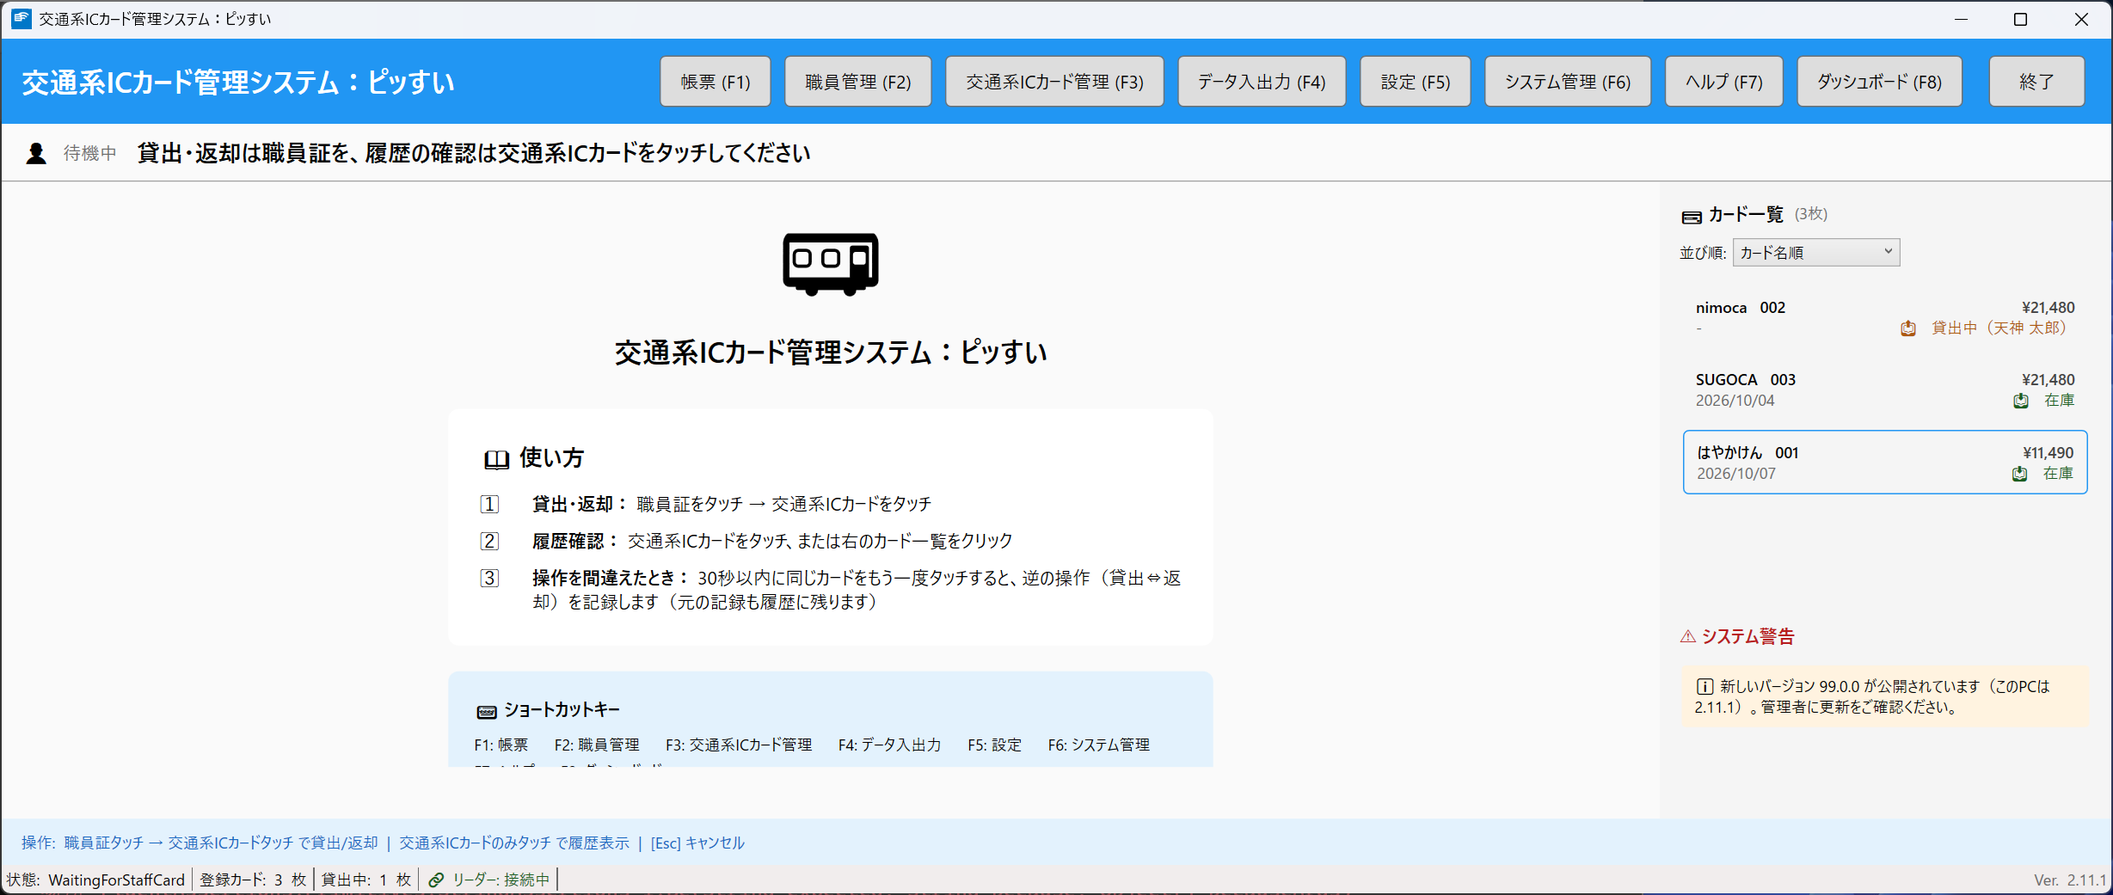
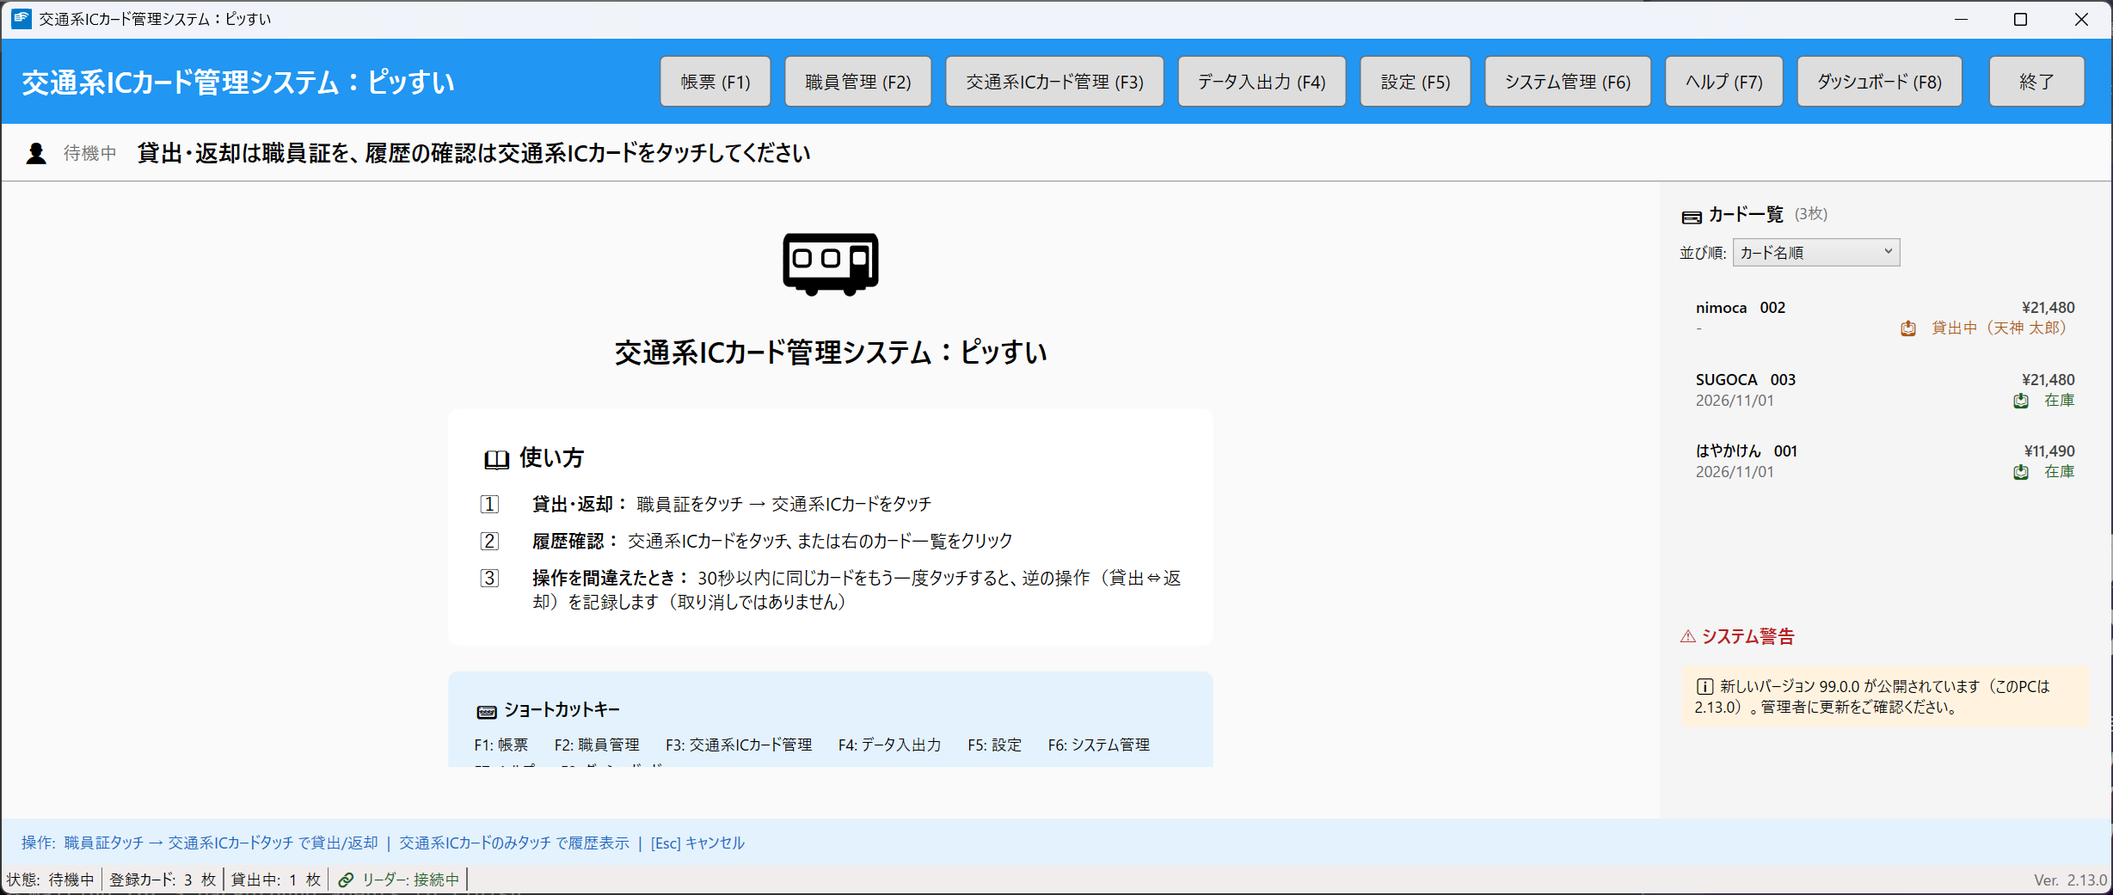
docs: 30 秒ルールの説明「両方が履歴に残る」を事実に合わせた（#2367） (#2368)
* docs: 30 秒ルールの説明「両方が履歴に残る」を事実に合わせた（#2367）

貸出のやり直しは通常の返却と同じく「（貸出中）」の行を削除するため、
その間に利用が無ければ台帳に行は残らない。画面の案内文の括弧書きを
「（取り消しではありません）」に改め、マニュアル・設計書を向きごとに書き分けた。

Claude-Session: https://claude.ai/code/session_015oomTQ2dRFweay62Pkst8V

* docs: レビュー指摘を反映し、未記録の利用の扱いを正確にしてスクリーンショットを撮り直した（#2367）

- 「その間に利用が無ければ」を「まだ記録されていない利用／台帳に未記録の利用が無ければ」に
  （返却時に記録する利用の下限は導入行の日付。#2237）
- main.png・main_with_warnings.png を新しい案内文で撮り直した
- LendingService のクラスコメントの「即座に取り消すことができます」を事実に合わせた
- 案内文のテストに NotContain("取り消せ") を足した

Claude-Session: https://claude.ai/code/session_015oomTQ2dRFweay62Pkst8V

* docs: レビュー 2 回目の指摘を反映した（#2367）

- IsRetouchWithinTimeout のコメントの「誤操作修正のための」を「30秒ルール（逆処理）の判定」に
- マニュアルの「まだ記録されていない利用」に「（チャージを含む）」を補った
- 案内文のテストに NotContain("取り消す") を足した

Claude-Session: https://claude.ai/code/session_015oomTQ2dRFweay62Pkst8V

---------

diff --git a/ICCardManager/tests/ICCardManager.Tests/ViewModels/MainViewModelTests.cs b/ICCardManager/tests/ICCardManager.Tests/ViewModels/MainViewModelTests.cs
@@ -4027,23 +4027,27 @@ public class MainViewModelTests : IDisposable
         var viewModel = CreateViewModel(retouchWindowSeconds: 45);
 
         viewModel.RetouchGuideText.Should().Be(
-            "45秒以内に同じカードをもう一度タッチすると、逆の操作（貸出⇔返却）を記録します（元の記録も履歴に残ります）");
+            "45秒以内に同じカードをもう一度タッチすると、逆の操作（貸出⇔返却）を記録します（取り消しではありません）");
     }
 
     /// <summary>
-    /// 再タッチは取り消しではないことを案内が述べ、取り消し・修正と読める語を含まないこと。
+    /// 再タッチは取り消しではないことを案内が述べ、「履歴に残ります」・修正と読める語を含まないこと。
     /// </summary>
     /// <remarks>
-    /// 30 秒ルールは逆の操作を新たに記録するだけで、直前の記録は消えず両方が履歴に残る（business-logic.md）。
+    /// 30 秒ルールは逆の操作を新たに記録するだけで、取り消しではない。ただし「元の記録も履歴に残る」とは限らない
+    /// （Issue #2367）。返却のやり直しでは返却で記録した利用の行が残るが、貸出のやり直しは通常の返却と同じく
+    /// 「（貸出中）」の行を消すので、台帳に未記録の利用が無ければ台帳に行は残らない。
     /// 旧文言「誤操作の修正」は誤った記録が消えると読まれた。
     /// </remarks>
     [Fact]
-    public void RetouchGuideText_元の記録が残ることを述べ取り消しと読める語を含まないこと()
+    public void RetouchGuideText_取り消しではないことを述べ履歴に残るとは書かないこと()
     {
         var text = MainViewModel.BuildRetouchGuideText(ICCardManager.Common.AppConstants.DefaultCardRetouchTimeoutSeconds);
 
-        text.Should().Contain("元の記録も履歴に残ります");
-        text.Should().NotContain("取り消");
+        text.Should().Contain("取り消しではありません");
+        text.Should().NotContain("履歴に残ります");
+        text.Should().NotContain("取り消せ");
+        text.Should().NotContain("取り消す");
         text.Should().NotContain("修正");
     }
 

diff --git a/ICCardManager/src/ICCardManager/Services/LendingService.cs b/ICCardManager/src/ICCardManager/Services/LendingService.cs
@@ -169,12 +169,14 @@ namespace ICCardManager.Services
     /// <list type="bullet">
     /// <item><description>ICカードの貸出処理（<see cref="LendAsync"/>）</description></item>
     /// <item><description>ICカードの返却処理と利用履歴の記録（<see cref="ReturnAsync"/>）</description></item>
-    /// <item><description>30秒ルールによる誤操作修正（<see cref="IsRetouchWithinTimeout"/>）</description></item>
+    /// <item><description>30秒ルールによる逆処理の判定（<see cref="IsRetouchWithinTimeout"/>）</description></item>
     /// </list>
     /// <para>
     /// <strong>30秒ルール:</strong>
     /// 同一カードが30秒以内に再度タッチされた場合、直前の処理と逆の処理が実行されます。
-    /// これにより、誤って貸出/返却した場合に即座に取り消すことができます。
+    /// 直前の記録を取り消すのではなく、逆の操作を通常の貸出・返却として新たに記録します（Issue #2367）。
+    /// 返却の後の貸出では返却で記録した利用の行が残り、貸出の後の返却では通常の返却と同じく
+    /// 「（貸出中）」の行を削除します（台帳に未記録の利用が無ければ行は残りません）。
     /// </para>
     /// <para>
     /// <strong>排他制御:</strong>
@@ -1877,7 +1879,7 @@ namespace ICCardManager.Services
         /// </returns>
         /// <remarks>
         /// <para>
-        /// このメソッドは誤操作修正のための「30秒ルール」の判定に使用します。
+        /// このメソッドは30秒ルール（逆処理）の判定に使用します。
         /// </para>
         /// <para>
         /// <strong>使用例:</strong>

diff --git a/ICCardManager/src/ICCardManager/ViewModels/MainViewModel.cs b/ICCardManager/src/ICCardManager/ViewModels/MainViewModel.cs
@@ -684,9 +684,11 @@ public partial class MainViewModel : ViewModelBase, IHistoryPanelHost
     /// 使い方ガイドの「操作を間違えたとき」の案内文を組み立てる（Issue #2143）
     /// </summary>
     /// <remarks>
-    /// 再タッチは直前の記録を取り消すのではなく、逆の操作を新たに記録する（元の記録も履歴に残る）。
+    /// 再タッチは直前の記録を取り消すのではなく、逆の操作を新たに記録する。
     /// 旧文言の「誤操作の修正」は、誤った記録が消えると読まれた。
+    /// 「元の記録も履歴に残ります」とも書かない（Issue #2367）。返却のやり直しでは返却で記録した利用の行が残るが、
+    /// 貸出のやり直しは通常の返却と同じく「（貸出中）」の行を消すので、台帳に未記録の利用が無ければ台帳に行は残らない。
     /// </remarks>
     internal static string BuildRetouchGuideText(int retouchWindowSeconds)
-        => $"{retouchWindowSeconds}秒以内に同じカードをもう一度タッチすると、逆の操作（貸出⇔返却）を記録します（元の記録も履歴に残ります）";
+        => $"{retouchWindowSeconds}秒以内に同じカードをもう一度タッチすると、逆の操作（貸出⇔返却）を記録します（取り消しではありません）";
 }

diff --git a/ICCardManager/tests/ICCardManager.Tests/Views/ExitConfirmationConventionTests.cs b/ICCardManager/tests/ICCardManager.Tests/Views/ExitConfirmationConventionTests.cs
@@ -83,7 +83,7 @@ public class ExitConfirmationConventionTests
     /// <remarks>
     /// 秒数は <c>AppOptions.RetouchWindowSeconds</c> で変更できる。「30秒」を XAML に直書きすると、
     /// 設定を変えたときに案内だけが実際の判定と食い違う。旧見出し「誤操作の修正」は、
-    /// 誤った記録が消えると読まれた（30 秒ルールは逆の操作を新たに記録するだけで、元の記録は残る）。
+    /// 誤った記録が消えると読まれた（30 秒ルールは取り消しではなく、逆の操作を新たに記録する）。
     /// </remarks>
     [Fact]
     public void 使い方ガイドの再タッチ案内は設定値から組み立てた文言を表示すること()

diff --git a/ICCardManager/CHANGELOG.md b/ICCardManager/CHANGELOG.md
@@ -132,6 +132,11 @@
   - 設定画面の「保存」は、設定の読み込みが終わるまで押せないようにした（読み込み中に Enter キーや Alt+S で保存すると、変えていない設定まで初期値（部署種別は市長事務部局など）で上書きされた）。読み込めなかった場合（共有フォルダーに一時的に接続できないなど）は、保存できない理由と、画面を閉じて開き直す案内を、画面に出し続ける
 
 **ドキュメント**
+- Issue #2367 **30 秒ルールの説明「両方が履歴に残る」「元の記録も履歴に残ります」を事実に合わせた**（貸出・返却の動作は変えない）。返却をやり直した場合は返却で記録した利用の行が残り「（貸出中）」の行が加わるが、貸出をやり直した場合は通常の返却と同じく「（貸出中）」の行が削除される（`LendingService.PersistReturnAsync` → `DeleteAllLentRecordsAsync`）ため、台帳に未記録の利用が無ければ台帳に行は残らない。タッチによる貸出・返却は操作ログにも記録しない
+  - メイン画面の使い方ガイドの案内文（`MainViewModel.BuildRetouchGuideText`）の括弧書きを「（元の記録も履歴に残ります）」から「（取り消しではありません）」に改めた
+  - ユーザーマニュアル（機能一覧・§4.4・用語集）・管理者マニュアル（用語集）は向きごとに書き分け、かんたん導入ガイドは「逆の操作があらためて記録されます」の短い形にした。01_システム概要設計書・03_画面設計書 §3.1.5・07_テスト設計書も合わせた。`LendingService` のクラスコメントの「誤って貸出/返却した場合に即座に取り消すことができます」も同じ事実に改めた
+  - スクリーンショット `main.png`・`main_with_warnings.png` を新しい案内文で撮り直した
+  - 既存テストの変更: `MainViewModelTests` の案内文の 2 件（完全一致の期待値を新しい文言に、`RetouchGuideText_元の記録が残ることを述べ取り消しと読める語を含まないこと` を `RetouchGuideText_取り消しではないことを述べ履歴に残るとは書かないこと` に改め、「取り消しではありません」を含み「履歴に残ります」「取り消せ」を含まないことを対で表明）。テスト件数は変わらない
 - Issue #2311 **07_テスト設計書の §2.55 以降（UT-083〜・§3 結合〜§10）の記述を実装・テストに合わせた**（動作の変更なし）。システムテストの期待結果を実装どおりにした（交通系ICカード待ち中の職員証タッチは操作者の持ち替え、残額警告はしきい値ちょうどで警告、切断検知は 25 秒以内、共有フォルダーモードの DB 保存先はフォルダーで指定しログ・バックアップは各 PC に作る）。結合テストの IT-003 は、30 秒ルールが返却を残して貸出を新たに記録することに直した。結合テスト・受入テストの手順を現在の画面（履歴パネル・「変更」・「新規登録」・データ入出力・「作成」）に合わせ、ST-001 に F8 を足した。重複していたテスト ID を振り直し（UT-090b・UT-091b・UT-095a・UT-100b・UT-101b）、付録 A の後ろにあった UT-108 以降を §2a へ移した（UT-145 も §2a の末尾へ置き、そのテストクラス別件数の表は件数検査の対象として §2.65 に置いた）。件数・テスト名・存在しないテストクラスへの参照を実テストに合わせ、本書に無かったテストクラス 7 つを §2.64 に載せた。§8 の基準をカバレッジの閾値なし・件数は §1.1a を正典とする形にした
 - Issue #2320 **00 用語集・00a 技術スタック用語集・01 システム概要設計書・08 ドキュメント設計書（と CLAUDE.md の技術スタック）の記述を実装に合わせた**（動作の変更なし）
   - ledger の物理削除の経路（履歴画面からの個別削除・統合元・返却時の貸出中レコード）を書き足し、`is_lent_record` を「返却時に解除」から「返却時に物理削除して利用の行に置き換える」に直した

diff --git a/ICCardManager/docs/manual/管理者マニュアル.md b/ICCardManager/docs/manual/管理者マニュアル.md
@@ -1650,7 +1650,7 @@ A5: 取り込めます。CSV の取り込みはいつでも実行できます。
 | 共有モード | データベースを共有フォルダーに置き、複数の PC で同じ記録を使う運用。最大約 20 台で同時に利用できます（[1.3](#13-複数のpcで使う場合のインストール)） |
 | 繰越月 | 紙の出納簿で最後に管理した月。カード登録時に指定し、ピッすいでの管理開始月の前月にあたります（[1.6.3](#163-紙の出納簿から引き継ぐ年度の途中から使い始める場合)） |
 | 開始ページ | 紙の物品出納簿の続きとして採番を始めるページ番号。カード登録時にだけ設定でき、後から変更できません（[1.6.3](#163-紙の出納簿から引き継ぐ年度の途中から使い始める場合)） |
-| 30秒ルール | 同じ交通系ICカードを 30 秒以内に再タッチすると、直前とは逆の操作（貸出 ⇔ 返却）が行われる仕組み。**直前の操作が取り消されるわけではありません**。逆の操作があらためて記録され、履歴には両方の操作が残ります。判定に使うのは交通系ICカードだけで、職員証は条件に入りません。別の職員が続けて同じカードをタッチしたときも発動し、その場合の記録は実際に操作した職員の名前になります |
+| 30秒ルール | 同じ交通系ICカードを 30 秒以内に再タッチすると、直前とは逆の操作（貸出 ⇔ 返却）が行われる仕組み。**直前の操作が取り消されるわけではありません**。逆の操作があらためて記録されます。返却をやり直した場合、返却で記録した利用はそのまま残ります。貸出をやり直した場合は通常の返却と同じで、まだ記録されていない利用（チャージを含む）が無ければ履歴に行は残りません。判定に使うのは交通系ICカードだけで、職員証は条件に入りません。別の職員が続けて同じカードをタッチしたときも発動し、その場合の記録は実際に操作した職員の名前になります |
 | バス利用 | 乗車駅・降車駅が空欄で、チャージでもポイント還元でもない履歴を、システムが自動でバス利用と判定する仕組み。摘要では「バス（★）」のように表記されます |
 | 外N名 | 複数名が同じ経路を 1 枚のカードで利用したときの記載。N は本人を含まない同行者の数です。履歴の行編集で入力します。設定で、返却時に尋ねるようにもできます（既定では尋ねません） |
 | VACUUM | データベースの最適化。毎月 10 日以降の最初の起動時に 1 台だけが自動で実行します。他の PC が接続中は見送られ、翌月の 10 日以降に再試行されます（[5.5](#55-共有モードの警告が出る)） |

diff --git a/ICCardManager/docs/design/03_画面設計書.md b/ICCardManager/docs/design/03_画面設計書.md
@@ -320,9 +320,10 @@ graph LR
 
 メインエリアの使い方ガイドの 3 項目目は、見出し「**操作を間違えたとき：**」と次の案内を表示する。
 
-> {N}秒以内に同じカードをもう一度タッチすると、逆の操作（貸出⇔返却）を記録します（元の記録も履歴に残ります）
+> {N}秒以内に同じカードをもう一度タッチすると、逆の操作（貸出⇔返却）を記録します（取り消しではありません）
 
-- **「修正」「取り消し」と書かない**。30 秒ルールは直前の記録を消すのではなく、逆の操作を新たに記録する（両方が履歴に残る。`business-logic.md`）。旧見出し「誤操作の修正」は誤った記録が消えると読まれた
+- **「修正」と書かず、「取り消し」は否定の形でだけ使う**。30 秒ルールは直前の記録を消すのではなく、逆の操作を新たに記録する（`business-logic.md`）。旧見出し「誤操作の修正」は誤った記録が消えると読まれた
+- **「元の記録も履歴に残ります」とは書かない**（Issue #2367）。返却のやり直しでは返却で記録した利用の行が残るが、貸出のやり直しは通常の返却と同じく「（貸出中）」の行を削除する（`LendingService.PersistReturnAsync` → `DeleteAllLentRecordsAsync`）ため、台帳に未記録の利用が無ければ台帳に行は残らない。タッチによる貸出・返却は操作ログにも記録しない
 - **秒数は直書きしない**。`{N}` は再タッチ判定（`LendingService`）と同じ `AppOptions.RetouchWindowSeconds`（既定 30）から `MainViewModel.BuildRetouchGuideText` が組み立て、`RetouchGuideText` として表示する
 
 #### 3.1.6 終了確認（Issue #2143）

diff --git a/ICCardManager/docs/design/01_システム概要設計書.md b/ICCardManager/docs/design/01_システム概要設計書.md
@@ -57,7 +57,7 @@
 | 1 | 職員証認証 | 職員証（FeliCa）をタッチして操作者を特定する | メイン、15 |
 | 2 | 交通系ICカード貸出 | 交通系ICカードの貸出を記録する | メイン |
 | 3 | 交通系ICカード返却 | 返却を記録し、カードに残る利用履歴（乗降駅・運賃・チャージ）を読み取って台帳へ反映する。残高不足を現金で補った利用は 1 行にまとめる | メイン |
-| 4 | 30秒ルール | 30 秒以内に同じカードを再タッチすると、逆の操作（貸出→返却、返却→貸出）を新たに記録する。直前の記録は消えず、両方が履歴に残る | メイン |
+| 4 | 30秒ルール | 30 秒以内に同じカードを再タッチすると、逆の操作（貸出→返却、返却→貸出）を新たに記録する（取り消しではない）。返却→貸出では返却で記録した利用の行が残り「（貸出中）」の行が加わる。貸出→返却は通常の返却と同じく「（貸出中）」の行を削除するため、台帳に未記録の利用が無ければ台帳に行は残らない。タッチによる貸出・返却は操作ログに記録しない | メイン |
 | 5 | バス停名入力 | 返却時に、バス利用（乗降駅が空欄の履歴）のバス停名を入力する。後から入力するための未入力一覧もある | 6、17 |
 | 6 | 同行者数入力 | 複数名が 1 枚のカードで同じ経路を利用したとき、氏名欄を「○○ 外N名」とするための同行者数を入力する（既定では入力を求めず、設定で返却時に尋ねるようにできる） | 24 |
 | 7 | 返却確認 | 返却直後に、そのカードの履歴を自動で表示し、今回記録した行を強調して確認を促す | メイン |

diff --git a/ICCardManager/docs/manual/かんたん導入ガイド.md b/ICCardManager/docs/manual/かんたん導入ガイド.md
@@ -135,7 +135,7 @@
 </tr>
 </table>
 
-> **間違えても大丈夫！** 30秒以内にもう一度同じカードをタッチすると、逆の操作（貸出 ⇔ 返却）が行われ、カードの状態が正しい側へ戻ります。直前の操作が取り消されるわけではなく、履歴には両方の操作が残ります。
+> **間違えても大丈夫！** 30秒以内にもう一度同じカードをタッチすると、逆の操作（貸出 ⇔ 返却）が行われ、カードの状態が正しい側へ戻ります。直前の操作が取り消されるわけではなく、逆の操作があらためて記録されます。
 
 ---
 
